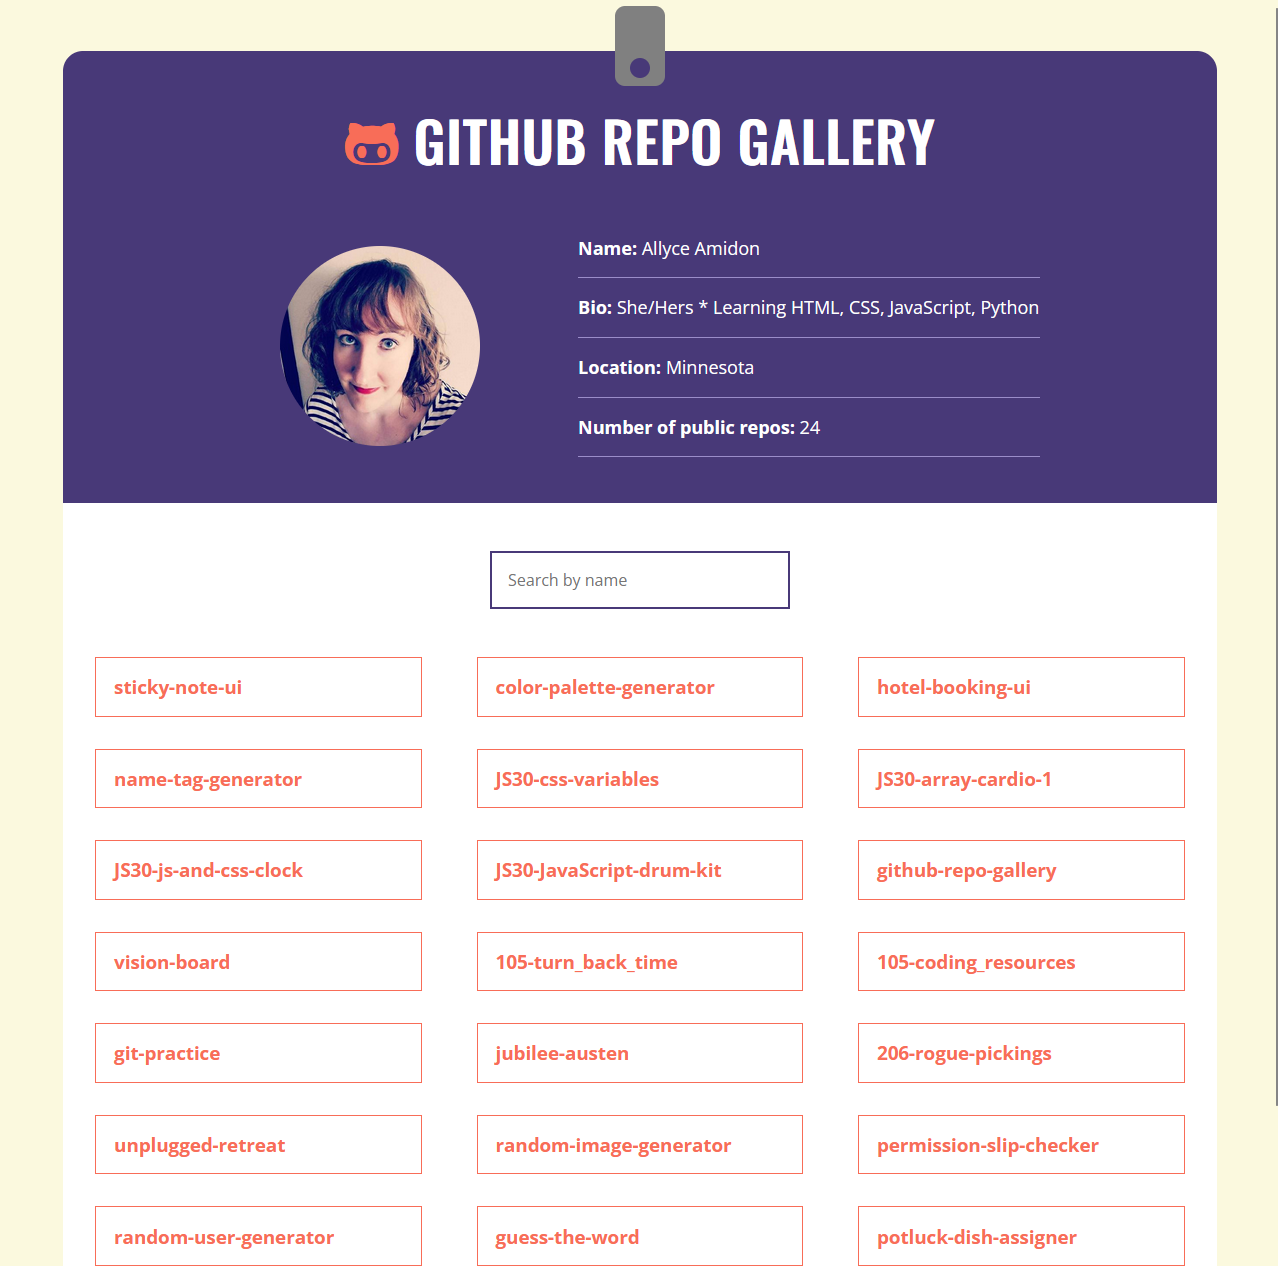
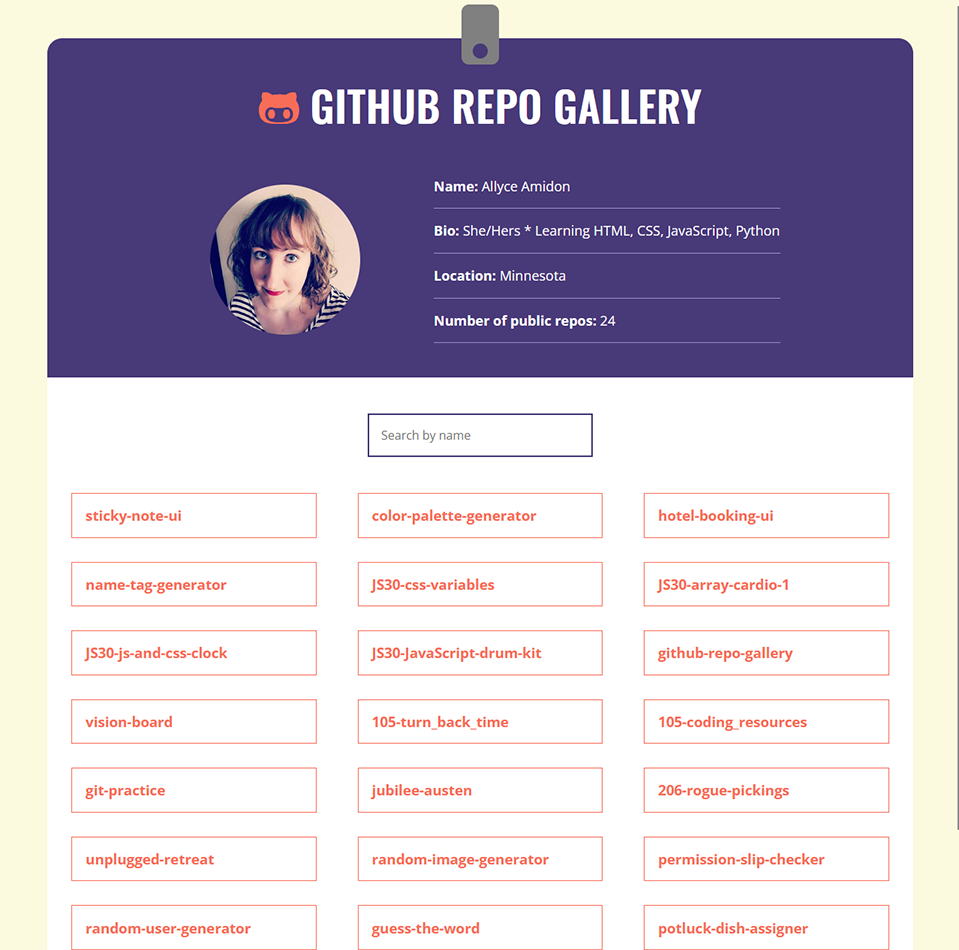
CSS for header and started CSS for Projects

diff --git a/index.html b/index.html
@@ -1,5 +1,5 @@
 <!doctype html>
-<html class="no-js" lang="">
+<html class="no-js" lang="en">
 
 <head>
   <meta charset="utf-8">
@@ -16,8 +16,10 @@
   <link rel="apple-touch-icon" href="icon.png">
   <!-- Place favicon.ico in the root directory -->
 
-  <link rel="stylesheet" href="css/normalize.css">
-  <link rel="stylesheet" href="css/main.css">
+  <link rel="stylesheet" href="./css/normalize.css">
+  <link rel="stylesheet" href="./css/main.css">
+  <link href="https://fonts.googleapis.com/css2?family=Alata&display=swap" rel="stylesheet">
+  <link href="https://fonts.googleapis.com/css2?family=Nunito+Sans:ital,wght@0,200;0,300;0,400;0,600;0,700;0,800;0,900;1,200;1,300;1,400;1,600;1,700;1,800;1,900&display=swap" rel="stylesheet"> 
 
   <meta name="theme-color" content="#fafafa">
 </head>
@@ -25,99 +27,103 @@
 <body>
 
   <!-- JS links -->
-  <script src="js/vendor/modernizr-3.11.2.min.js"></script>
-  <script src="js/plugins.js"></script>
-  <script src="js/main.js"></script>
+  <script src="./js/vendor/modernizr-3.11.2.min.js"></script>
+  <script src="./js/plugins.js"></script>
+  <script src="./js/main.js"></script>
 
 
   <!-- Body of text -->
     <header>
-        <h1>Allyce Amidon</h1>
-        <h3>Web Developer</h3>
         <nav>
             <ul>
-                <li>About</li>
-                <li>Skills</li>
                 <li>Projects</li>
+                <li>Skills</li>
+                <li>About</li>
                 <li>Contact</li>
             </ul>
         </nav>
+        <div id="name">
+            <h1>Allyce Amidon</h1>
+            <h3>Web Developer</h3>
+        </div>
     </header>
 
-    <div id="about">
-        <h2>About</h2>
-        <img src="./img/amidon-headshot.jpg" alt="Headshot of Allyce Amidon"/>
-        <h4>Allyce Amidon</h4>
-        <h5>Web Developer</h5>
-        <p>Bringing a designer's vision to life is my passion, whether that's coding up a website or sewing a costume for a production of 
-            <em>Midsummer Night's Dream</em>. I love getting into the minutae and creating neat, organized, sensible code. Fun fact, before I got into 
-            web development, I was using my coding skills to format books for press in the publishing industry. To me, there is nothing more satisfying than
-            seeing code you've written behind the scenes spring to life on the screen.
-        </p>
-    </div>
+    <main>
+        <div id="projects">
+            <h2>Projects</h2>
+            <div id="project 1">
+                <img src="./img/guess-the-word-game.png" alt="Screenshot of Guess the Word Game">
+                <h4>Guess the Word Game</h4>
+                <p class="description">An endlessly repeatable game where players have 8 chances to guess the letters of a randomized mystery word, built with vanilla JavaScript and an API.</p>
+                <p class="skills"><strong>Skills: </strong>JavaScript ES6, Manipulating the DOM, APIs</p>
+                <p class="tools"><strong>Tools: </strong>Visual Studio Code, Git, GitHub</p>
+                <p class="link"><a href="https://amidona.github.io/guess-the-word/" target="_blank">Live Page</a></p>
+            </div>
+            <div id="project 2">
+                <img src="./img/sticky-note-app.png" alt="Screenshot of the sticky note app">
+                <h4>Sticky Note App</h4>
+                <p class="description">An online sticky note app, built with JSX, that allows users to add, edit, search, and delete sticky notes and saves their data between sessions.</p>
+                <p class="skills"><strong>Skills: </strong>JavaScript ES6, JSX, Managing Data Flow, Manipulating the DOM</p>
+                <p class="tools"><strong>Tools: </strong>CodeSandbox</p>
+                <p class="link"><a href="https://codesandbox.io/s/sticky-note-ui-final-vpuvtc?file=/src/App.js" target="_blank">Live Page</a></p>
+            </div>
+            <div id="project 3">
+                <img src="./img/unplugged-retreat.png" alt="Screenshot of the upper part of the Unplugged Retreat website">
+                <h4>Unplugged Retreat Website</h4>
+                <p class="description">A responsive multi-page website for a tech retreat company styled with CSS, featuring Google Maps integration.</p>
+                <p class="skills"><strong>Skills: </strong>HTML5, CSS3, Flexbox, Responsive Typography</p>
+                <p class="tools"><strong>Tools: </strong>Photoshop, Visual Studio Code, Git, GitHub</p>
+                <p class="link"><a href="https://amidona.github.io/unplugged-retreat/" target="_blank">Live Page</a></p>
+            </div>
+            <div id="project 4">
+                <img src="./img/github-repo-gallery.png" alt="Screenshot of my GitHub repo gallery">
+                <h4>GitHub Repo Gallery</h4>
+                <p class="description">A searchable gallery showcasing all of my public GitHub repos, built with JSX and utilizing APIs.</p>
+                <p class="skills"><strong>Skills: </strong>JSX, APIs, Manipulating the DOM</p>
+                <p class="tools"><strong>Tools: </strong>Visual Studio Code, Git, GitHub</p>
+                <p class="link"><a href="https://amidona.github.io/github-repo-gallery/" target="_blank">Live Page</a></p>
+            </div>
+        </div>
 
-    <div id="skills">
-        <h2>Skills</h2>
-        <ul>
-            <li>CSS3</li>
-            <li>HTML5</li>
-            <li>Responsive Web Design</li>
-            <li>Java Script ES6 and JSX</li>
-            <li>APIs</li>
-        </ul>
-        <h2>Tools</h2>
-        <ul>
-            <li>Photoshop</li>
-            <li>Visual Studio Code</li>
-            <li>CodeSandbox</li>
-            <li>Git and GitHub</li>
-            <li>FTP Client</li>
-        </ul>
-    </div>
+        <div id="skills">
+            <h2>Skills</h2>
+            <ul>
+                <li>CSS3</li>
+                <li>HTML5</li>
+                <li>Responsive Web Design</li>
+                <li>Java Script ES6 and JSX</li>
+                <li>APIs</li>
+            </ul>
+            <h2>Tools</h2>
+            <ul>
+                <li>Photoshop</li>
+                <li>Visual Studio Code</li>
+                <li>CodeSandbox</li>
+                <li>Git and GitHub</li>
+                <li>FTP Client</li>
+            </ul>
+        </div>
 
-    <div id="projects">
-        <h2>Projects</h2>
-        <div id="project 1">
-            <img src="./img/guess-the-word-game.png" alt="Screenshot of Guess the Word Game"/>
-            <p class="title">Guess the Word Game</p>
-            <p class="description">An endlessly repeatable game where players have 8 chances to guess the letters of a randomized mystery word, built with vanilla JavaScript and an API.</p>
-            <p class="skills"><strong>Skills:</strong>JavaScript ES6, Manipulating the DOM, APIs</p>
-            <p class="tools"><strong>Tools:</strong>Visual Studio Code, Git, GitHub</p>
-            <p class="link"><a href="https://amidona.github.io/guess-the-word/">Live Page</a></p>
+        <div id="about">
+            <h2>About</h2>
+            <img src="./img/amidon-headshot.jpg" alt="Allyce Amidon">
+            <h4>Allyce Amidon</h4>
+            <h5>Web Developer</h5>
+            <p>Bringing a designer's vision to life is my passion, whether that's coding up a website or sewing a costume for a production of 
+                <em>Midsummer Night's Dream</em>. I love getting into the minutae and creating neat, organized, sensible code. Fun fact, before I got into 
+                web development, I was using my coding skills to format books for press in the publishing industry. To me, there is nothing more satisfying than
+                seeing code you've written behind the scenes spring to life on the screen.
+            </p>
         </div>
-        <div id="project 2">
-            <img src="./img/sticky-note-app.png" alt="Screenshot of the sticky note app"/>
-            <p class="title">Sticky Note App</p>
-            <p class="description">An online sticky note app, built with JSX, that allows users to add, edit, search, and delete sticky notes and saves their data between sessions.</p>
-            <p class="skills"><strong>Skills:</strong>JavaScript ES6, JSX, Managing Data Flow, Manipulating the DOM</p>
-            <p class="tools"><strong>Tools:</strong>CodeSandbox</p>
-            <p class="link"><a href="https://codesandbox.io/s/sticky-note-ui-final-vpuvtc?file=/src/App.js">Live Page</a></p>
-        </div>
-        <div id="project 3">
-            <img src="./img/unplugged-retreat.png" alt="Screenshot of the upper part of the Unplugged Retreat website"/>
-            <p class="title">Unplugged Retreat Website</p>
-            <p class="description">A responsive multi-page website for a tech retreat company styled with CSS, featuring Google Maps integration.</p>
-            <p class="skills"><strong>Skills:</strong>HTML5, CSS3, Flexbox, Responsive Typography</p>
-            <p class="tools"><strong>Tools:</strong>Photoshop, Visual Studio Code, Git, GitHub</p>
-            <p class="link"><a href="https://amidona.github.io/unplugged-retreat/">Live Page</a></p>
-        </div>
-        <div id="project 4">
-            <img src="./img/github-repo-gallery.png" alt="Screenshot of my GitHub repo gallery"/>
-            <p class="title">GitHub Repo Gallery</p>
-            <p class="description">A searchable gallery showcasing all of my public GitHub repos, built with JSX and utilizing APIs.</p>
-            <p class="skills"><strong>Skills:</strong>JSX, APIs, Manipulating the DOM</p>
-            <p class="tools"><strong>Tools:</strong>Visual Studio Code, Git, GitHub</p>
-            <p class="link"><a href="https://amidona.github.io/github-repo-gallery/">Live Page</a></p>
-        </div>
-    </div>
 
-    <div id="contact">
-        <h2>Contact</h2>
-        <p>Allyce Amidon</p>
-        <p>allyceamidon [@] gmail [dot] com</p>
-        <p><a href="https://www.linkedin.com/in/allyce-amidon-817b7054/">LinkedIn</a></p>
-        <p><a href="https://github.com/amidona">GitHub</a></p>
-    </div>
+        <div id="contact">
+            <h2>Contact</h2>
+            <p>Allyce Amidon</p>
+            <p>allyceamidon [@] gmail [dot] com</p>
+            <p><a href="https://www.linkedin.com/in/allyce-amidon-817b7054/" target="_blank">LinkedIn</a></p>
+            <p><a href="https://github.com/amidona" target="_blank">GitHub</a></p>
+        </div>
+    </main>
 
 
 

diff --git a/css/main.css b/css/main.css
@@ -87,6 +87,102 @@ textarea {
    Author's custom styles
    ========================================================================== */
 
+/*****************BASE STYLES******************/
+body {
+    background: #B2E7E8;
+    color: #304D63;
+    font-family: 'Nunito Sans', sans-serif;
+    font-size: 16px;
+    margin: 0 auto;
+    overflow: auto;
+    padding: 0;
+    width: 80%;
+}
+
+h1, h2, h3, h4 {
+    font-family: 'Alata', sans-serif;
+    margin: 0 auto;
+    text-align: center;
+}
+
+h2 {
+    font-size: 2em;
+}
+
+h4 {
+    font-size: 1.25em;
+}
+
+/*****************HEADER********************/
+nav {
+    float: left;
+    margin: 30px auto;
+    width: 100%;
+}
+
+nav ul {
+    display: flex;
+    justify-content: space-between;
+    padding: 0;
+}
+
+nav ul li {
+    display: inline-block;
+    font-weight: bold;
+    padding-right: 5px
+}
+
+#name {
+    clear: both;
+    margin: 30px auto;
+}
+
+h1 {
+    font-size: 2.25em;
+}
+
+h3 {
+    font-size: 1.5em;
+}
+
+/*******************MAIN******************/
+#projects {
+    margin-top: 80px;
+}
+
+#projects img {
+    margin: 20px auto;
+    width: 100%;
+}
+
+#projects h4 {
+    margin-bottom: 40px;
+}
+
+
+/******************ABOUT********************/
+
+
+/*****************SKILLS*******************/
+
+
+/****************PROJECTS*****************/
+
+
+/*******************CONTACT*******************/
+
+
+
+
+
+
+
+
+
+
+
+
+
 /* ==========================================================================
    Helper classes
    ========================================================================== */
